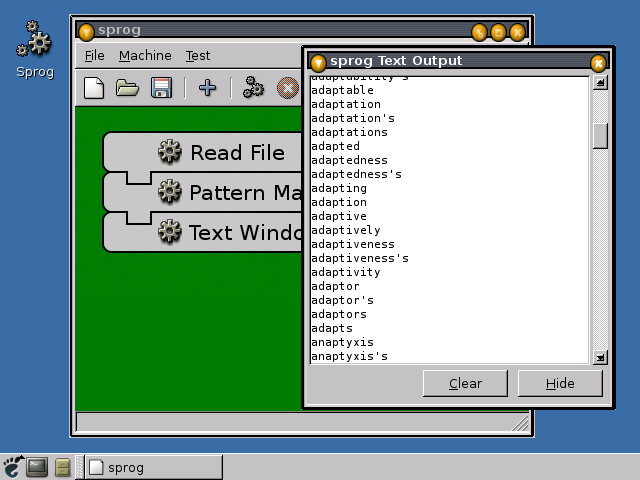
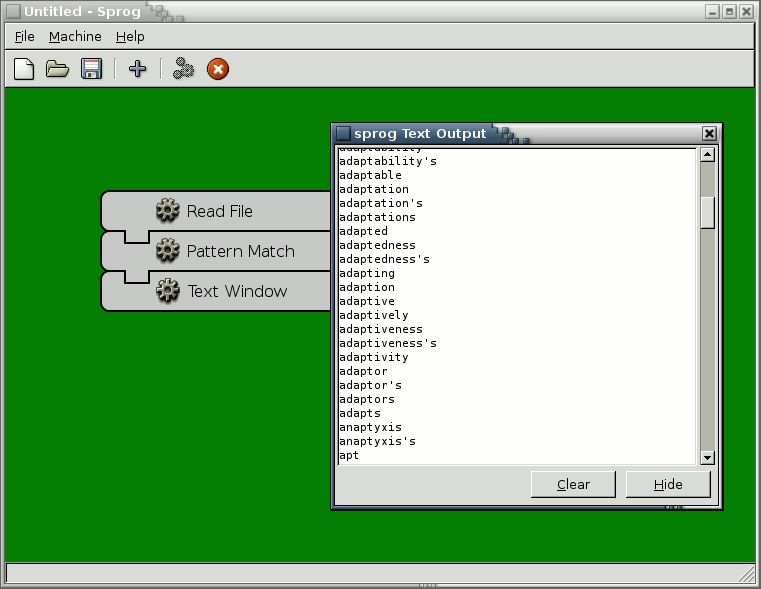
- update screenshot images and descriptions

diff --git a/trunk/sprog-web/html/screenshots/index.html b/trunk/sprog-web/html/screenshots/index.html
@@ -20,13 +20,14 @@
   <tr>
     <td><a href="images/01_assembly.png"><img src="images/01_assembly-small.png" /></a></td>
     <td>This shot shows Sprog running under Debian GNU/Linux in the GNOME
-    desktop environment.  In this example three gears are being assembled to 
-    create a simple machine.</td>
+    desktop environment.  In this example the gear palette is visible, two 
+    gears have been dragged to the workbench and a third is being dragged
+    across to complete a simple machine.</td>
   </tr>
   <tr>
     <td><a href="images/02_running.png"><img src="images/02_running-small.png" /></a></td>
-    <td>In this shot, the assembled machine is running and the results are 
-    appearing in the text window.</td>
+    <td>In this shot, the gear palette has been hidden, the assembled machine 
+    is running and the results are appearing in the text window.</td>
   </tr>
 </table>
 
@@ -41,7 +42,9 @@
     <li><a href="../intro/index.html">What is Sprog?</a></li>
     <li>Screenshots</li>
     <li><a href="http://sourceforge.net/project/showfiles.php?group_id=126289">Download</a></li>
+    <li><a href="../install/index.html">Installation</a></li>
     <li><a href="http://sourceforge.net/cvs/?group_id=126289">CVS</a></li>
+    <li><a href="http://sourceforge.net/projects/sprog/">SourceForge Summary Page</a></li>
   </ul>
 
   <div id="logos">
